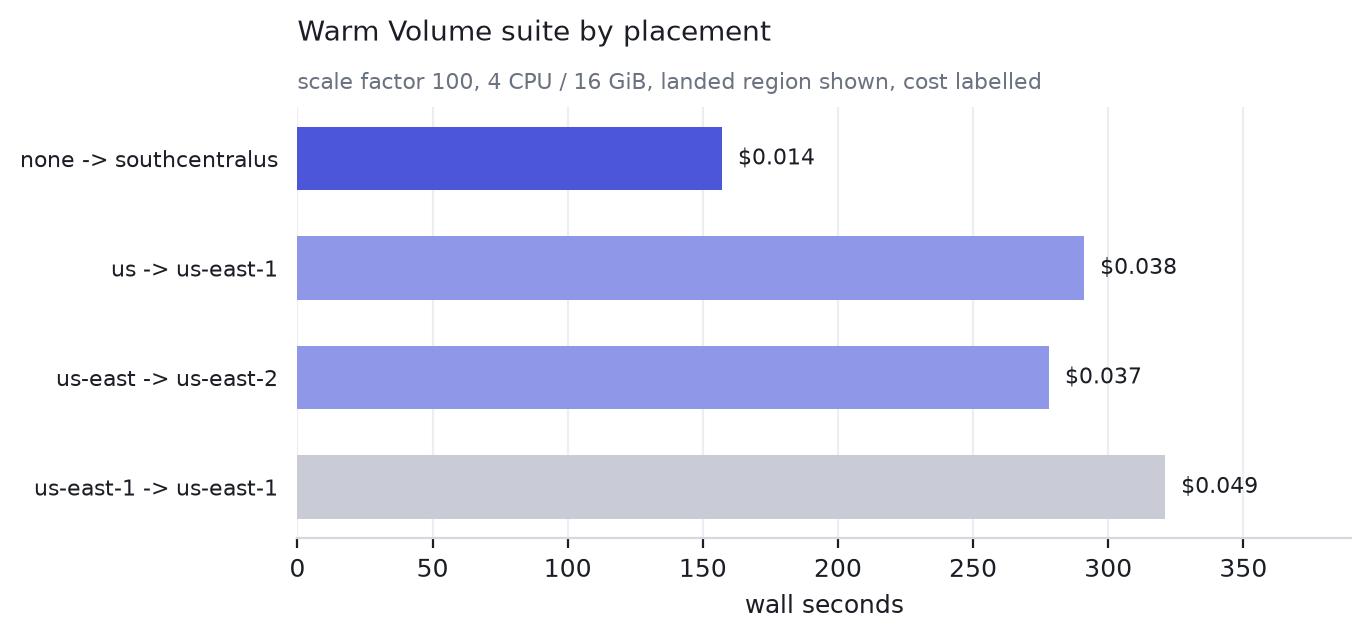
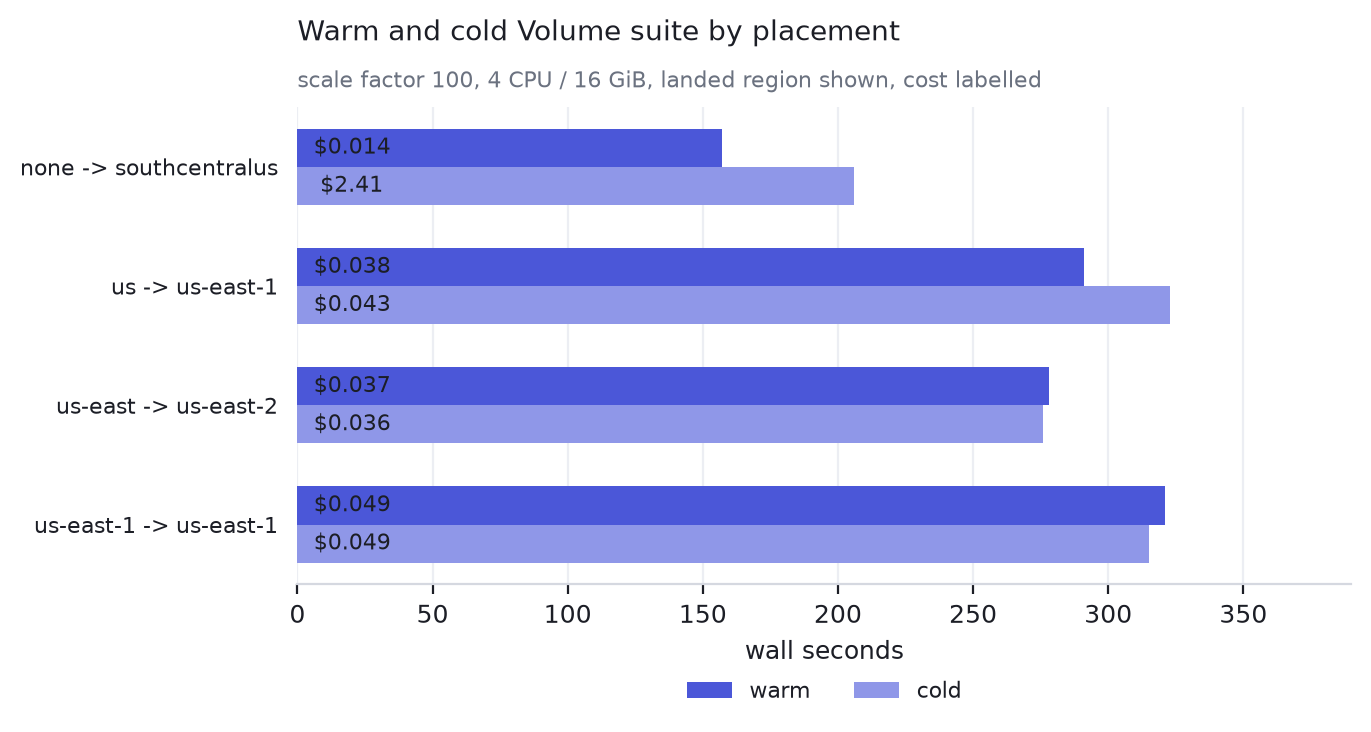
Publish cold Volume placement comparison

Changed region(s): [[0.0306, 0.3271, 0.9803, 0.9812], [0.0, 0.0297, 0.7659, 0.2973]]

diff --git a/docs/make_charts.py b/docs/make_charts.py
@@ -52,10 +52,10 @@ COST_ROWS = (
 )
 
 PLACEMENT_ROWS = (
-    ("none", "southcentralus", 157, 0.014, COLORS[0]),
-    ("us", "us-east-1", 291, 0.038, COLORS[1]),
-    ("us-east", "us-east-2", 278, 0.037, COLORS[1]),
-    ("us-east-1", "us-east-1", 321, 0.049, COLORS[2]),
+    ("none", "southcentralus", 157, 0.014, 206, 2.41),
+    ("us", "us-east-1", 291, 0.038, 323, 0.043),
+    ("us-east", "us-east-2", 278, 0.037, 276, 0.036),
+    ("us-east-1", "us-east-1", 321, 0.049, 315, 0.049),
 )
 
 # fmt: off
@@ -185,27 +185,36 @@ def read_speed_chart() -> Path:
 
 
 def placement_chart() -> Path:
-    """Compare warm Volume suite wall time across placement selectors."""
-    fig, ax = plt.subplots(figsize=(6.8, 2.8))
+    """Compare warm and cold Volume suite wall time across selectors."""
+    fig, ax = plt.subplots(figsize=(6.8, 3.1))
     positions = list(range(len(PLACEMENT_ROWS)))
-    bars = ax.barh(
-        positions,
-        [row[2] for row in PLACEMENT_ROWS],
-        height=0.58,
-        color=[row[4] for row in PLACEMENT_ROWS],
-        zorder=2,
-    )
-    for bar, (_, _, wall, cost, _) in zip(bars, PLACEMENT_ROWS):
-        ax.text(
-            wall + 6,
-            bar.get_y() + bar.get_height() / 2,
-            f"${cost:.3f}",
-            va="center",
-            fontsize=8,
+    width = 0.32
+    for offset, index, color, label in (
+        (-width / 2, 2, COLORS[0], "warm"),
+        (width / 2, 4, COLORS[1], "cold"),
+    ):
+        bars = ax.barh(
+            [position + offset for position in positions],
+            [row[index] for row in PLACEMENT_ROWS],
+            height=width,
+            color=color,
+            label=label,
+            zorder=2,
         )
+        cost_index = index + 1
+        for bar, row in zip(bars, PLACEMENT_ROWS):
+            ax.text(
+                row[cost_index] + 6,
+                bar.get_y() + bar.get_height() / 2,
+                f"${row[cost_index]:.3f}"
+                if row[cost_index] < 1
+                else f"${row[cost_index]:.2f}",
+                va="center",
+                fontsize=8,
+            )
     ax.set_yticks(
         positions,
-        [f"{requested} -> {landed}" for requested, landed, _, _, _ in PLACEMENT_ROWS],
+        [f"{requested} -> {landed}" for requested, landed, *_ in PLACEMENT_ROWS],
         fontsize=8,
     )
     ax.invert_yaxis()
@@ -214,8 +223,15 @@ def placement_chart() -> Path:
     ax.grid(axis="x", color="#eceef3", zorder=1)
     chart_title(
         ax,
-        "Warm Volume suite by placement",
+        "Warm and cold Volume suite by placement",
         "scale factor 100, 4 CPU / 16 GiB, landed region shown, cost labelled",
+    )
+    ax.legend(
+        frameon=False,
+        loc="upper center",
+        bbox_to_anchor=(0.5, -0.16),
+        ncols=2,
+        fontsize=8,
     )
     path = OUT_DIR / "placement.png"
     fig.savefig(path, bbox_inches="tight")

diff --git a/README.md b/README.md
@@ -53,7 +53,7 @@ one path whose speed does not depend on where the container landed.
 
 ### Placement comparison
 
-![Warm Volume suite by placement](docs/placement.png)
+![Warm and cold Volume suite by placement](docs/placement.png)
 
 | input path | requested region | landed region | compute multiplier | suite wall | per-query geomean | read GB/s | cost |
 |---|---|---|---:|---:|---:|---:|---:|
@@ -71,6 +71,21 @@ faster. Broad selectors are not a guarantee: `us-east` landed in `us-east-2`
 for Volume, which is inter-region traffic against this `us-east-1` bucket and
 can incur transfer charges. The landed region, not the requested selector,
 decides whether the read is free.
+
+Cold Volume fills add one 26.5 GB ingest:
+
+| requested region | landed region | compute multiplier | suite wall | ingest | per-query geomean | cost |
+|---|---|---:|---:|---:|---:|---:|
+| none | southcentralus | 1.0x | 206s | not reported | not reported | $2.41 total |
+| `us` | us-east-1 | 1.5x | 323s | 82.8s at 0.320 GB/s | 4.14s | $0.043 |
+| `us-east` | us-east-1 | 1.5x | 276s | 83.0s at 0.319 GB/s | 3.90s | $0.036 |
+| `us-east-1` | us-east-1 | 1.75x | 315s | 84.5s at 0.314 GB/s | 4.31s | $0.049 |
+
+In-region ingest ran at essentially the same speed across broad and exact
+selectors. The 276s to 323s cold-suite range is within the run-to-run spread,
+so the durable cold-run difference is the compute multiplier. The unpinned cold
+fill includes modeled off-region transfer. Cold-fill read speed is omitted
+because the probe measured the container's page cache.
 
 The 22-query suite, with what it cost:
 
